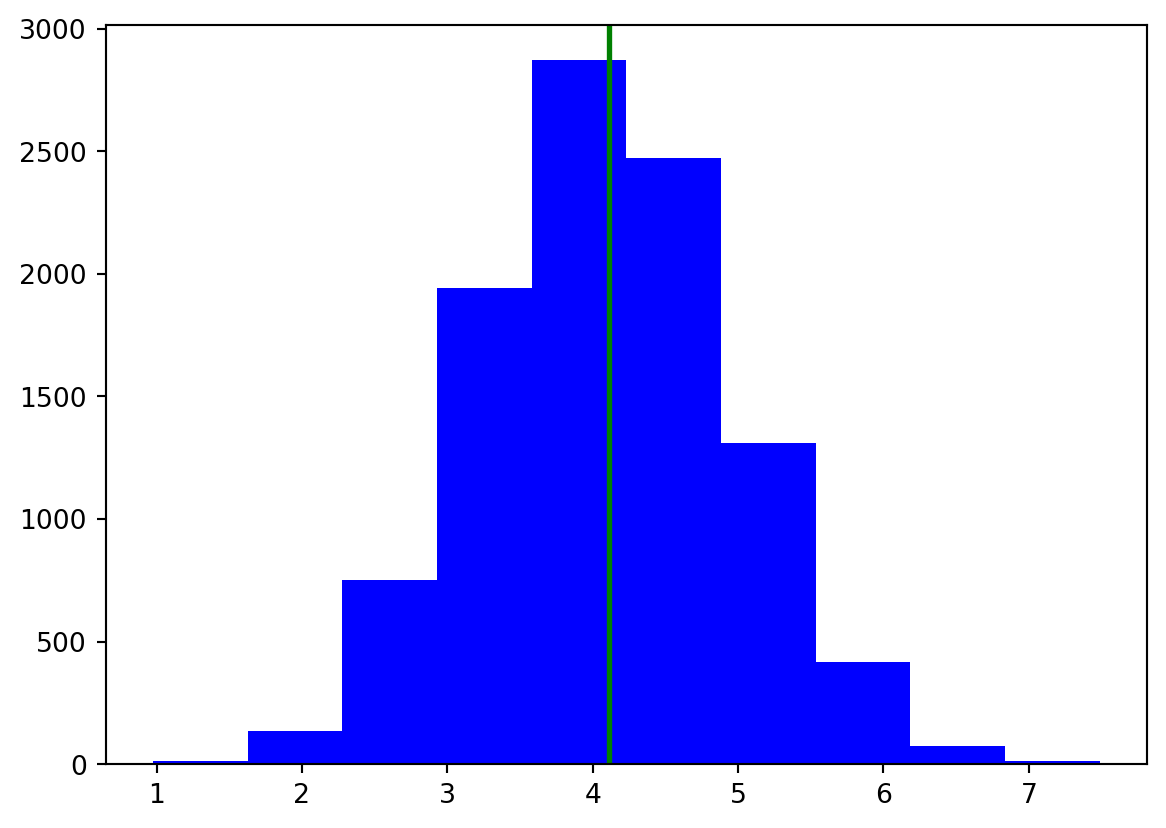
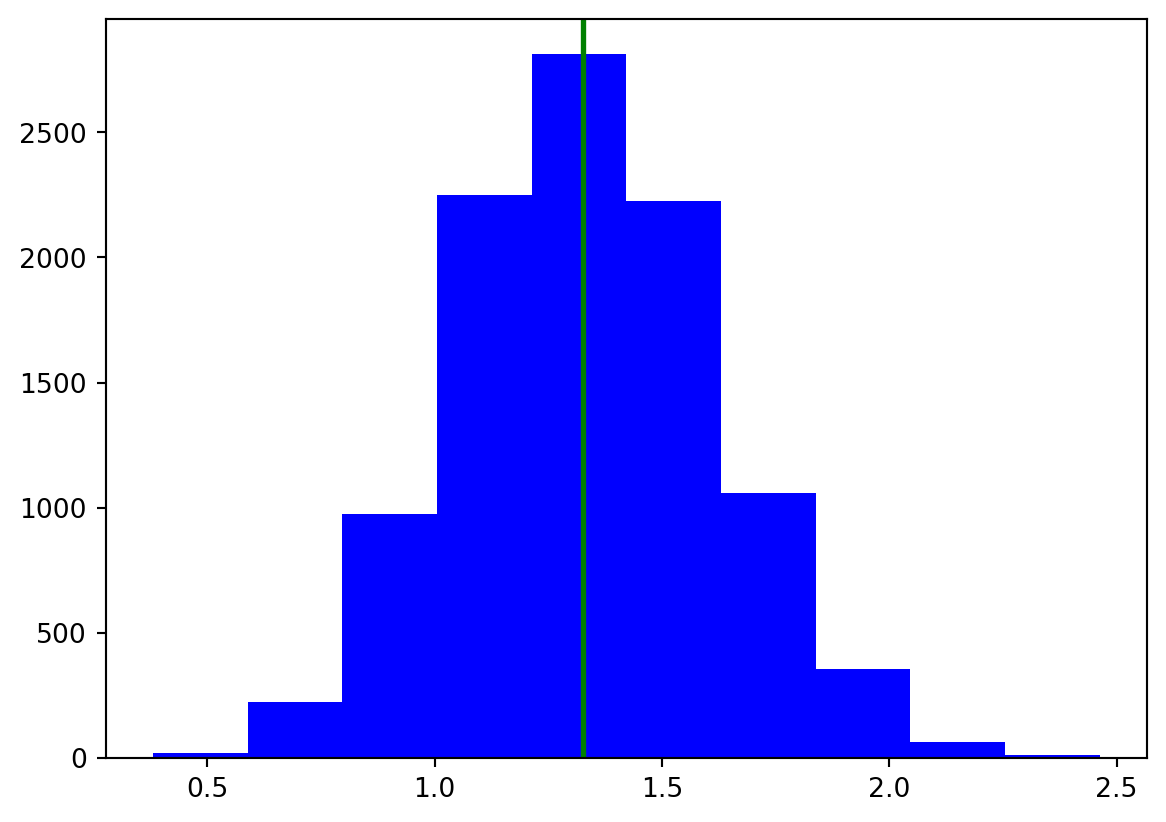
HW5 수정

diff --git a/docs/posts/HW5(표준분산)/index.html b/docs/posts/HW5(표준분산)/index.html
@@ -173,7 +173,7 @@ pre > code.sourceCode > span > a:first-child::before { text-decoration: underlin
 
 <p>#균일분포 (3, 7)에서 20개의 표본을 뽑아서 분산을 2가지 방법으로 추정해보세요.</p>
 <p>#1.n-1로 나눈 것을 s_2, n으로 나눈 것을 k_2로 정의하고, s_2의 분포와 k_2의 분포를 그려주세요! (10000개 사용) #2.각 분포 그래프에 모분산의 위치에 녹색 막대를 그려주세요.</p>
-<div id="4a868286" class="cell" data-execution_count="1">
+<div id="d70c72fc" class="cell" data-execution_count="1">
 <div class="sourceCode cell-code" id="cb1"><pre class="sourceCode python code-with-copy"><code class="sourceCode python"><span id="cb1-1"><a href="#cb1-1" aria-hidden="true" tabindex="-1"></a><span class="co">#s_2분포</span></span>
 <span id="cb1-2"><a href="#cb1-2" aria-hidden="true" tabindex="-1"></a><span class="im">import</span> pandas <span class="im">as</span> pd</span>
 <span id="cb1-3"><a href="#cb1-3" aria-hidden="true" tabindex="-1"></a><span class="im">import</span> numpy <span class="im">as</span> np</span>
@@ -182,7 +182,7 @@ pre > code.sourceCode > span > a:first-child::before { text-decoration: underlin
 <span id="cb1-6"><a href="#cb1-6" aria-hidden="true" tabindex="-1"></a>s_2<span class="op">=</span>[]</span>
 <span id="cb1-7"><a href="#cb1-7" aria-hidden="true" tabindex="-1"></a>s_1<span class="op">=</span>[]</span>
 <span id="cb1-8"><a href="#cb1-8" aria-hidden="true" tabindex="-1"></a><span class="cf">for</span> k <span class="kw">in</span> <span class="bu">range</span>(<span class="dv">10000</span>):</span>
-<span id="cb1-9"><a href="#cb1-9" aria-hidden="true" tabindex="-1"></a>    x<span class="op">=</span>uniform.rvs(loc<span class="op">=</span><span class="dv">3</span>,scale<span class="op">=</span><span class="dv">7</span>,size<span class="op">=</span><span class="dv">20</span>)</span>
+<span id="cb1-9"><a href="#cb1-9" aria-hidden="true" tabindex="-1"></a>    x<span class="op">=</span>uniform.rvs(loc<span class="op">=</span><span class="dv">3</span>,scale<span class="op">=</span><span class="dv">4</span>,size<span class="op">=</span><span class="dv">20</span>)</span>
 <span id="cb1-10"><a href="#cb1-10" aria-hidden="true" tabindex="-1"></a>    x_mean<span class="op">=</span>np.mean(x)</span>
 <span id="cb1-11"><a href="#cb1-11" aria-hidden="true" tabindex="-1"></a>    a<span class="op">=</span> (x<span class="op">-</span>x_mean)<span class="op">**</span><span class="dv">2</span></span>
 <span id="cb1-12"><a href="#cb1-12" aria-hidden="true" tabindex="-1"></a>    aa<span class="op">=</span> <span class="bu">sum</span>(a)</span>
@@ -194,7 +194,7 @@ pre > code.sourceCode > span > a:first-child::before { text-decoration: underlin
 <span id="cb1-18"><a href="#cb1-18" aria-hidden="true" tabindex="-1"></a></span>
 <span id="cb1-19"><a href="#cb1-19" aria-hidden="true" tabindex="-1"></a></span>
 <span id="cb1-20"><a href="#cb1-20" aria-hidden="true" tabindex="-1"></a>plt.hist(s_2, color <span class="op">=</span> <span class="st">"blue"</span>)</span>
-<span id="cb1-21"><a href="#cb1-21" aria-hidden="true" tabindex="-1"></a>sss<span class="op">=</span>uniform.rvs(loc<span class="op">=</span><span class="dv">3</span>,scale<span class="op">=</span><span class="dv">7</span>,size<span class="op">=</span><span class="dv">20000</span>)</span>
+<span id="cb1-21"><a href="#cb1-21" aria-hidden="true" tabindex="-1"></a>sss<span class="op">=</span>uniform.rvs(loc<span class="op">=</span><span class="dv">3</span>,scale<span class="op">=</span><span class="dv">4</span>,size<span class="op">=</span><span class="dv">20000</span>)</span>
 <span id="cb1-22"><a href="#cb1-22" aria-hidden="true" tabindex="-1"></a>var<span class="op">=</span>np.var(sss)</span>
 <span id="cb1-23"><a href="#cb1-23" aria-hidden="true" tabindex="-1"></a><span class="co">#모분산 표현</span></span>
 <span id="cb1-24"><a href="#cb1-24" aria-hidden="true" tabindex="-1"></a>plt.axvline(x<span class="op">=</span>var,color<span class="op">=</span><span class="st">"green"</span>,linestyle<span class="op">=</span><span class="st">'-'</span>,linewidth<span class="op">=</span><span class="dv">2</span>)</span>
@@ -203,7 +203,7 @@ pre > code.sourceCode > span > a:first-child::before { text-decoration: underlin
 <div class="cell-output cell-output-display">
 <div>
 <figure class="figure">
-<p><img src="index_files/figure-html/cell-2-output-1.png" width="583" height="414" class="figure-img"></p>
+<p><img src="index_files/figure-html/cell-2-output-1.png" width="583" height="411" class="figure-img"></p>
 </figure>
 </div>
 </div>
@@ -211,7 +211,7 @@ pre > code.sourceCode > span > a:first-child::before { text-decoration: underlin
 <pre><code>&lt;Figure size 672x480 with 0 Axes&gt;</code></pre>
 </div>
 </div>
-<div id="0213a5d5" class="cell" data-execution_count="2">
+<div id="5b9c2f45" class="cell" data-execution_count="2">
 <div class="sourceCode cell-code" id="cb3"><pre class="sourceCode python code-with-copy"><code class="sourceCode python"><span id="cb3-1"><a href="#cb3-1" aria-hidden="true" tabindex="-1"></a><span class="co">#s_1분포</span></span>
 <span id="cb3-2"><a href="#cb3-2" aria-hidden="true" tabindex="-1"></a>plt.hist(s_1, color <span class="op">=</span> <span class="st">"red"</span>)</span>
 <span id="cb3-3"><a href="#cb3-3" aria-hidden="true" tabindex="-1"></a>plt.axvline(x<span class="op">=</span>var,color<span class="op">=</span><span class="st">"green"</span>,linestyle<span class="op">=</span><span class="st">'-'</span>,linewidth<span class="op">=</span><span class="dv">2</span>)</span>
@@ -220,7 +220,7 @@ pre > code.sourceCode > span > a:first-child::before { text-decoration: underlin
 <div class="cell-output cell-output-display">
 <div>
 <figure class="figure">
-<p><img src="index_files/figure-html/cell-3-output-1.png" width="583" height="414" class="figure-img"></p>
+<p><img src="index_files/figure-html/cell-3-output-1.png" width="583" height="411" class="figure-img"></p>
 </figure>
 </div>
 </div>
@@ -229,16 +229,16 @@ pre > code.sourceCode > span > a:first-child::before { text-decoration: underlin
 </div>
 </div>
 <p>#3.결과를 살펴보고, 왜 n-1로 나눈 것을 분산을 추정하는 지표로 사용하는 것이 타당한지 써주세요!</p>
-<div id="5cd32cd6" class="cell" data-execution_count="3">
+<div id="a3ccf5d7" class="cell" data-execution_count="3">
 <div class="sourceCode cell-code" id="cb5"><pre class="sourceCode python code-with-copy"><code class="sourceCode python"><span id="cb5-1"><a href="#cb5-1" aria-hidden="true" tabindex="-1"></a><span class="bu">print</span>(np.mean(s_2))</span>
 <span id="cb5-2"><a href="#cb5-2" aria-hidden="true" tabindex="-1"></a><span class="bu">print</span>(np.mean(s_1))</span>
 <span id="cb5-3"><a href="#cb5-3" aria-hidden="true" tabindex="-1"></a>var</span></code><button title="Copy to Clipboard" class="code-copy-button"><i class="bi"></i></button></pre></div>
 <div class="cell-output cell-output-stdout">
-<pre><code>4.086965715827843
-3.8826174300364515</code></pre>
+<pre><code>1.3333158417808937
+1.266650049691849</code></pre>
 </div>
-<div class="cell-output cell-output-display" data-execution_count="9">
-<pre><code>np.float64(4.110577753088062)</code></pre>
+<div class="cell-output cell-output-display" data-execution_count="3">
+<pre><code>np.float64(1.3262619108620732)</code></pre>
 </div>
 </div>
 <p>#표본평균의 평균을 내었을때 s_2가 실제 분산과 더 가까우므로 s_2를 쓰는것이 맞다</p>

diff --git a/docs/blog.html b/docs/blog.html
@@ -246,7 +246,7 @@ window.Quarto = {
 </a>
 </div>
 </div>
-<div class="quarto-post image-right" data-index="2" data-listing-file-modified-sort="1722265984226" data-listing-reading-time-sort="1" data-listing-word-count-sort="120">
+<div class="quarto-post image-right" data-index="2" data-listing-file-modified-sort="1722301707229" data-listing-reading-time-sort="1" data-listing-word-count-sort="120">
 <div class="thumbnail">
 <p><a href="./posts/HW5(표준분산)/index.html" class="no-external"></a></p><a href="./posts/HW5(표준분산)/index.html" class="no-external">
 <p class="card-img-top"><img src="posts\HW5(표준분산)\index_files\figure-html\cell-2-output-1.png"  class="thumbnail-image card-img"/></p>
